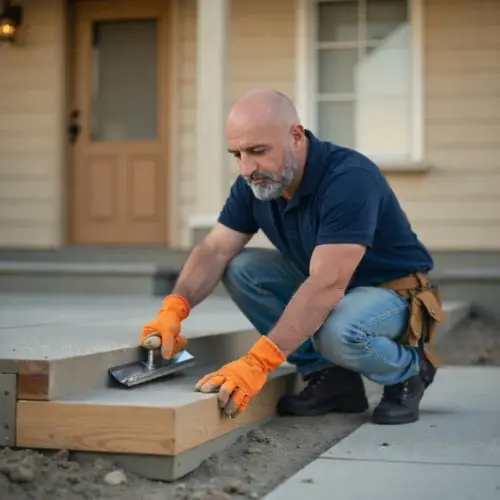
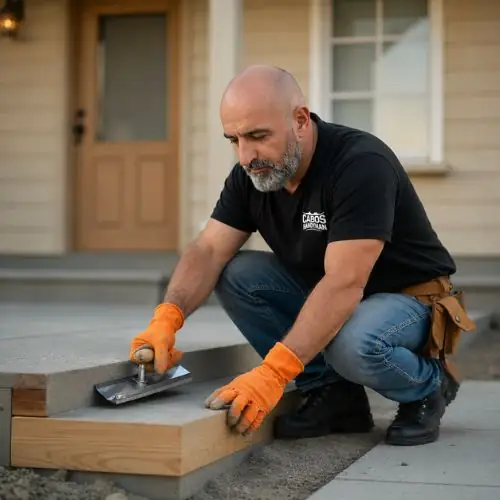
feat: replace Restaurant Buildout card with Cabo Property Care
Repositions the sixth portfolio card from a placeholder project into the
entry point for the recurring Property Care product.

- Reword section subhead to cover both one-off work and ongoing care
- Reorder cards so Cabo Property Care sits last (Modern Kitchen stays at
  index 0 to preserve the LCP element and its eager/high-priority hints)
- New card links to /property-care-plans instead of the service popup;
  cards now branch on an optional href field
- Link card uses a span for its CTA (a button nested in an anchor is
  invalid HTML); popup cards keep their button for keyboard access
- Add cabo-property-care.webp, encoded to match siblings
  (500x500, sRGB, lossy VP8, no metadata chunks)

Also restores home-addition.webp, which had been deleted and left as a
dangling import that broke the build, and drops the duplicate
home-addition.webb.jpg typo file.

diff --git a/src/components/MaintenanceMasterHomepage.tsx b/src/components/MaintenanceMasterHomepage.tsx
@@ -12,8 +12,8 @@ import kitchenImage from '../assets/modern-kitchen-remodel.webp';
 import bathroomImage from '../assets/luxury-bathroom.webp';
 import officeImage from '../assets/commercial-office.webp';
 import communityImage from '../assets/community-center.webp';
-import restaurantImage from '../assets/restaurant-buildout.webp';
 import homeImage from '../assets/home-addition.webp';
+import propertyCareImage from '../assets/cabo-property-care.webp';
 
 export default function CabosHandymanHomepage() {
   const [isAIAssistantOpen, setIsAIAssistantOpen] = useState(false);
@@ -101,6 +101,13 @@ export default function CabosHandymanHomepage() {
       imagePosition: "center 30%"
     },
     {
+      name: "Home Addition",
+      category: "Residential",
+      image: homeImage,
+      alt: "Home addition and expansion project in Cabo San Lucas featuring new construction, structural work, and seamless integration by Cabos Handyman",
+      imagePosition: "center 35%"
+    },
+    {
       name: "Community Center",
       category: "HOA",
       image: communityImage,
@@ -108,18 +115,14 @@ export default function CabosHandymanHomepage() {
       imagePosition: "center 25%"
     },
     {
-      name: "Restaurant Buildout",
-      category: "Commercial",
-      image: restaurantImage,
-      alt: "Restaurant construction and commercial buildout project in Cabo San Lucas with custom design and professional finishing by Cabos Handyman",
-      imagePosition: "center 35%"
-    },
-    {
-      name: "Home Addition",
-      category: "Residential",
-      image: homeImage,
-      alt: "Home addition and expansion project in Cabo San Lucas featuring new construction, structural work, and seamless integration by Cabos Handyman",
-      imagePosition: "center 35%"
+      name: "Cabo Property Care",
+      category: "Property Services",
+      image: propertyCareImage,
+      alt: "Property inspection and maintenance visit in Cabo San Lucas, with a technician documenting a home condition check as part of a Cabo Property Care plan by Cabos Handyman",
+      imagePosition: "center 35%",
+      tagline: "Your property. Checked. Maintained. Protected.",
+      href: "/property-care-plans",
+      cta: "View Property Care →"
     }
   ];
 
@@ -420,41 +423,63 @@ export default function CabosHandymanHomepage() {
             <div className="text-center mb-16">
               <h2 className="text-4xl md:text-5xl font-bold text-foreground mb-6">We Build Projects That Last</h2>
               <p className="text-xl text-gray-900 max-w-2xl mx-auto">
-                As the leading handyman service in Cabo San Lucas, explore our completed residential and commercial projects.<br />Click on any project to see our service menu and pricing.
+                From individual repairs and renovations to ongoing property care, we help Cabo property owners keep their homes and businesses in excellent condition.
               </p>
             </div>
             
             <div className="grid md:grid-cols-2 lg:grid-cols-3 gap-8">
-              {projects.map((project, index) => (
-                <div
-                  key={index}
-                  className="bg-card rounded-xl overflow-hidden shadow-lg hover:shadow-xl transition-all duration-300 group cursor-pointer"
-                  onClick={() => openServiceMenu(project.name)}
-                >
-                  <div className="h-64 bg-muted overflow-hidden">
-                    <img
-                      src={project.image}
-                      alt={project.alt}
-                      loading={index === 0 ? "eager" : "lazy"}
-                      fetchPriority={index === 0 ? "high" : undefined}
-                      decoding="async"
-                      width="600"
-                      height="400"
-                      className="w-full h-full object-cover group-hover:scale-110 transition-transform duration-500"
-                      style={{ objectPosition: project.imagePosition }}
-                    />
+              {projects.map((project, index) => {
+                const cardClassName = "bg-card rounded-xl overflow-hidden shadow-lg hover:shadow-xl transition-all duration-300 group cursor-pointer";
+                const cardBody = (
+                  <>
+                    <div className="h-64 bg-muted overflow-hidden">
+                      <img
+                        src={project.image}
+                        alt={project.alt}
+                        loading={index === 0 ? "eager" : "lazy"}
+                        fetchPriority={index === 0 ? "high" : undefined}
+                        decoding="async"
+                        width="600"
+                        height="400"
+                        className="w-full h-full object-cover group-hover:scale-110 transition-transform duration-500"
+                        style={{ objectPosition: project.imagePosition }}
+                      />
+                    </div>
+                    <div className="p-6">
+                      <div className="text-sm text-[#06756b] font-semibold mb-2">{project.category}</div>
+                      <h3 className="text-xl font-bold text-card-foreground group-hover:text-[#06756b] transition-colors">
+                        {project.name}
+                      </h3>
+                      {project.tagline && (
+                        <p className="mt-2 text-sm text-gray-700">{project.tagline}</p>
+                      )}
+                      {project.href ? (
+                        <span className="mt-4 block text-[#06756b] font-semibold text-sm group-hover:text-[#049d8e] transition-colors">
+                          {project.cta}
+                        </span>
+                      ) : (
+                        <button className="mt-4 text-[#06756b] font-semibold text-sm hover:text-[#049d8e] transition-colors">
+                          View Services & Pricing →
+                        </button>
+                      )}
+                    </div>
+                  </>
+                );
+
+                return project.href ? (
+                  <a key={index} href={project.href} className={`${cardClassName} block`}>
+                    {cardBody}
+                  </a>
+                ) : (
+                  <div
+                    key={index}
+                    className={cardClassName}
+                    onClick={() => openServiceMenu(project.name)}
+                  >
+                    {cardBody}
                   </div>
-                  <div className="p-6">
-                    <div className="text-sm text-[#06756b] font-semibold mb-2">{project.category}</div>
-                    <h3 className="text-xl font-bold text-card-foreground group-hover:text-[#06756b] transition-colors">
-                      {project.name}
-                    </h3>
-                    <button className="mt-4 text-[#06756b] font-semibold text-sm hover:text-[#049d8e] transition-colors">
-                      View Services & Pricing →
-                    </button>
-                  </div>
-                </div>
-              ))}
+                );
+              })}
             </div>
           </div>
         </section>
